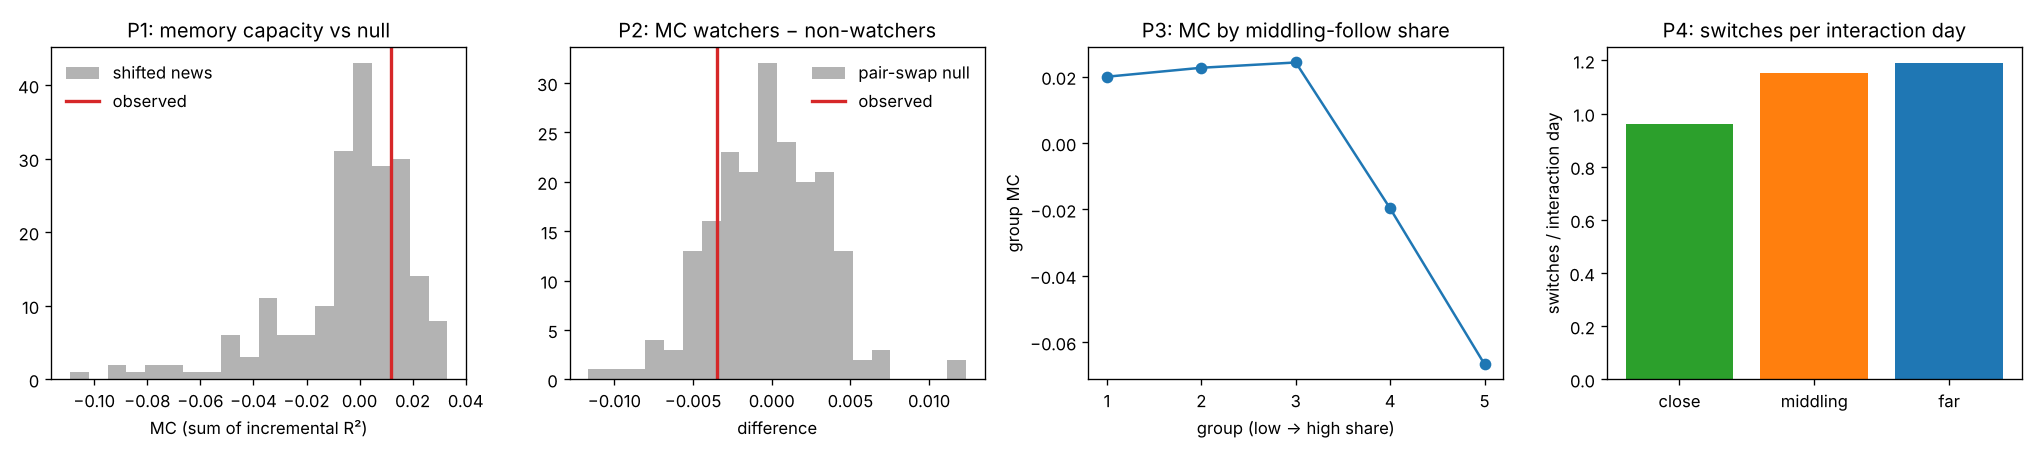
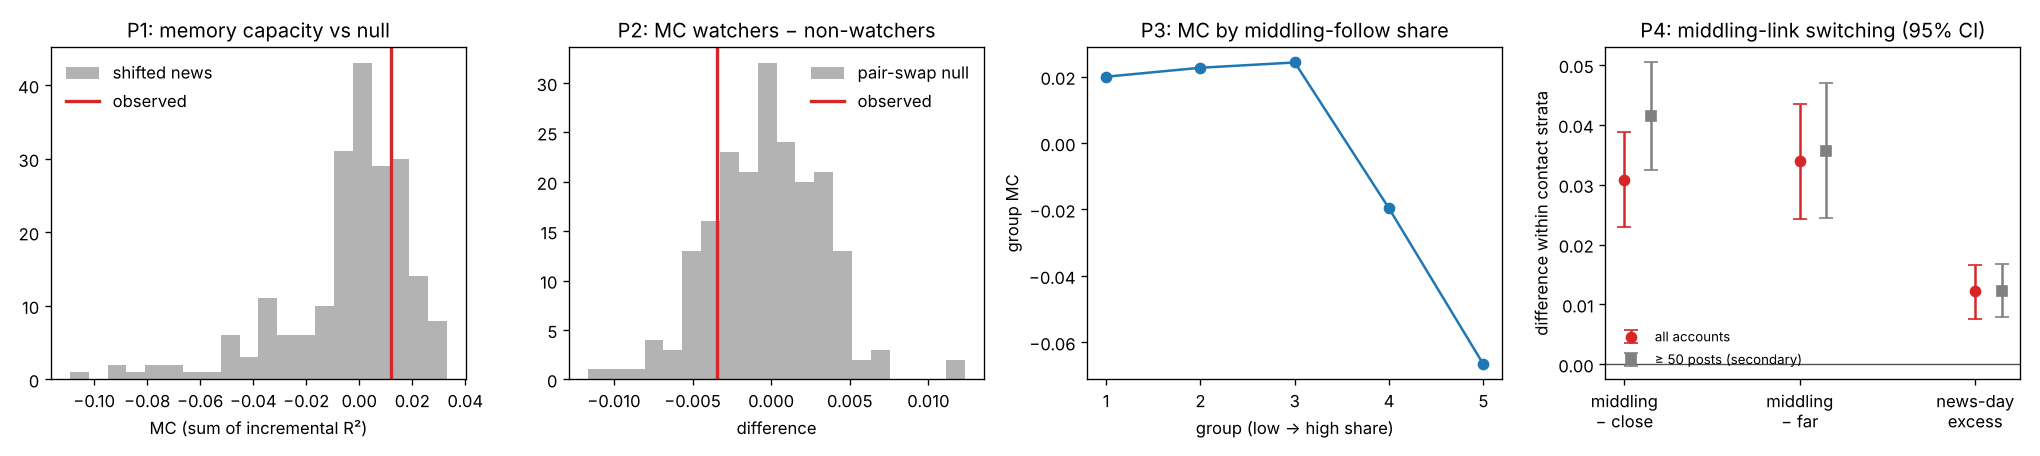
Round-2 confirmation results and write-up
Pre-registered round 2 (REAL_PREREG2.md, 16898c9) on the held-out users:
P1 MC 0.014, p 0.16 (not detected; P2, P3 not interpretable).
P4a middling-close +0.038, middling-far +0.037 and P4b +0.009, all Holm
p 0.006, replicating discovery; the secondary active-account check holds.
The positive control shows the decoder sees planted memory only at about
a fifth of state variance.

Adds REAL_RESULTS2.md, updates the README summary and status log, and
plots the tested P4 contrasts with CIs instead of raw switching rates,
which mixed in how often each class is contacted.

Claude-Session: https://claude.ai/code/session_01Uo4N8TcFqvSTmXDV3vbfXo

diff --git a/scripts/real_report.py b/scripts/real_report.py
@@ -121,9 +121,25 @@ def main():
         ax[2].set(title='P3: MC by middling-follow share', xlabel='group (low → high share)',
                   ylabel='group MC')
     if 'p4' in r:
-        names = list(r['p4']['raw'])
-        ax[3].bar(names, [r['p4']['raw'][k]['per_int_day'] for k in names], color=['C2', 'C1', 'C0'])
-        ax[3].set(title='P4: switches per interaction day', ylabel='switches / interaction day')
+        # The tested contrasts (within interaction-day strata), not raw rates: raw rates mix
+        # in how often each class is contacted at all.
+        q = r['p4']
+        lab = ['middling\n− close', 'middling\n− far', 'news-day\nexcess']
+        est = [q['d_close'], q['d_far'], q['d_news']]
+        ci = [q['ci_close'], q['ci_far'], q['ci_news']]
+        x = np.arange(3)
+        ax[3].errorbar(x, est, yerr=[[e - c[0] for e, c in zip(est, ci)], [c[1] - e for e, c in zip(est, ci)]],
+                       fmt='o', color='C3', capsize=4, label='all accounts')
+        if 'p4s' in r:
+            s = r['p4s']
+            es = [s['d_close'], s['d_far'], s['d_news']]
+            cs = [s['ci_close'], s['ci_far'], s['ci_news']]
+            ax[3].errorbar(x + 0.15, es, yerr=[[e - c[0] for e, c in zip(es, cs)], [c[1] - e for e, c in zip(es, cs)]],
+                           fmt='s', color='0.5', capsize=4, label='≥ 50 posts (secondary)')
+            ax[3].legend(frameon=False, fontsize=8)
+        ax[3].axhline(0, color='0.3', lw=0.8)
+        ax[3].set_xticks(x, lab)
+        ax[3].set(title='P4: middling-link switching (95% CI)', ylabel='difference within contact strata')
     fig.tight_layout()
     fig.savefig(os.path.join(ROOT, 'figures', f'real_{half}{tag}.png'), dpi=120)
 

diff --git a/REAL_RESULTS2.md b/REAL_RESULTS2.md
@@ -1,0 +1,136 @@
+# Real-data test, round 2: results (topic-attention states)
+
+Round 2 of the Bluesky / GDELT test planned in [REAL_DATA.md](REAL_DATA.md). The rules were
+frozen in [REAL_PREREG2.md](REAL_PREREG2.md) and pushed (commit `16898c9`) before any
+round-2 statistic was computed on the confirmation half. Round 1 (sentiment states) is in
+[REAL_RESULTS.md](REAL_RESULTS.md).
+
+Data:
+- Failla, A. & Rossetti, G. (2024). *Bluesky social dataset*, Zenodo,
+  doi:10.5281/zenodo.14669616.
+- GDELT 1.0 daily event files, 17 Feb 2023 – 18 Mar 2024.
+
+Only aggregates appear here. Full output: [results/real_confirm_r2.txt](results/real_confirm_r2.txt)
+and [figures/real_confirm_r2.png](figures/real_confirm_r2.png); discovery:
+[results/real_discovery_r2.txt](results/real_discovery_r2.txt); positive control:
+[results/real_posctrl_r2.txt](results/real_posctrl_r2.txt).
+
+## Short answer
+
+![round 2 confirmation](figures/real_confirm_r2.png)
+
+**The link-switching signature of the simulation shows up, and replicates.** When accounts
+are placed by *what* they post about rather than by how positive they sound, follow links at
+middling distance open and close more often than close or far links, holding the amount of
+contact fixed. The excess grows on high-news days. All three P4 tests pass on the
+confirmation half (Holm p = 0.006), with almost the same effect sizes as on discovery. They
+also survive the pre-registered guard against noisy profiles of quiet accounts.
+
+**The memory part is still not detected.** Users' attention states hold a little news beyond
+what the news itself predicts (MC 0.014). That is inside the shifted-news null (p = 0.16),
+so P2 and P3 are not interpretable. The positive control shows why this is weak evidence
+either way: the pipeline only sees planted memory that makes up about a fifth of a user's
+day-to-day variation.
+
+Round 1 sorted links by sentiment and found close > middling > far switching. That pattern
+does not survive a better opinion axis.
+
+## Confirmation half (pre-registered)
+
+| prediction | statistic | null / interval | one-sided p | Holm | verdict |
+|---|---|---|---|---|---|
+| 1 there is memory | MC = 0.014 (39,233 users, 231 days) | shifted news: mean −0.001, 95th pct 0.026 (207 shifts) | 0.16 | 0.48 | not supported |
+| 2 second-hand users hold less | MC watchers − non-watchers = +0.004 (6,050 matched pairs) | pair-swap 95th pct +0.006 | 0.17 | 0.48 | not interpretable |
+| 3 middling follows cost memory | slope −0.008 per group (37,490 non-watchers) | random-group 5th pct −0.013 | 0.19 | 0.48 | not interpretable |
+| 4a middling − close switching | +0.038 [+0.029, +0.046] | cluster bootstrap | 0.001 | 0.006 | passes |
+| 4a middling − far switching | +0.037 [+0.026, +0.047] | cluster bootstrap | 0.001 | 0.006 | passes → **4a supported** |
+| 4b middling news-day excess | +0.009 [+0.005, +0.013] | cluster bootstrap | 0.001 | 0.006 | **supported** |
+
+0.001 is the smallest p that 1000 bootstrap draws can give.
+
+Secondary check, outside the Holm family: positions only for accounts with at least 50
+late-window posts (2.23 M edges). Middling − close +0.048 [+0.039, +0.057], middling − far
++0.039 [+0.027, +0.051], news-day excess +0.010 [+0.006, +0.014]. No sign flips and no
+interval covers 0, so under the pre-registered reading the P4 result is not driven by profile
+noise.
+
+| | discovery | confirmation |
+|---|---|---|
+| P1 MC (null 95th pct), p | 0.012 (0.025), 0.25 | 0.014 (0.026), 0.16 |
+| P2 difference, p | −0.003, 0.82 | +0.004, 0.17 |
+| P3 slope, p | −0.022, 0.025 | −0.008, 0.19 |
+| P4a middling − close / − far | +0.031 / +0.034 | +0.038 / +0.037 |
+| P4b news-day excess | +0.012 | +0.009 |
+| secondary P4 (≥ 50 posts) | +0.042 / +0.036 / +0.012 | +0.048 / +0.039 / +0.010 |
+
+The discovery P3 slope (raw p 0.025, driven by negative MC in the top two groups) did not
+replicate. P4 replicated on every line.
+
+## What the numbers say
+
+**Middling links switch most, once contact is held fixed.**
+- Raw switches per interaction day: close 0.96, middling 1.16, far 1.19. Far links are mostly
+  one-off contacts, and a single interaction already counts as an opening and a closing.
+- Within interaction-day strata, the pre-registered comparison, middling links switch about
+  0.04 more per edge than both close and far links.
+- In round 1, sentiment distance gave the opposite order (close > middling > far). So the
+  pattern depends on the opinion axis, and topical attention is the axis on which it matches
+  the model.
+
+**"More on high-news days" is relative.**
+- All three classes switch slightly *less* on high-news days: log high/low ratios −0.019
+  (close), −0.014 (middling) and −0.027 (far).
+- Middling links fall the least, and far links the most.
+- So the news-day excess is a smaller drop, not an absolute rise. It matches the
+  pre-registered statistic but is weaker than "the news switches edge links on and off".
+
+**The memory measure is too insensitive to settle P1–P3.**
+- Positive control on discovery:
+  - It plants an exponential trace of the news (λ = 0.8, each user reading it along their
+    own random direction) in 30% of users.
+  - The traces alone, used as the state, would give MC 0.31.
+  - Planted into the real states, the MC rises above the null's 95th percentile only at
+    amplitude 0.5. There the trace's standard deviation is half that of each user's own
+    day-to-day variation, and MC reaches 0.040.
+  - At amplitude 0.3 and below, MC stays at the unplanted 0.012.
+- The observed 0.012–0.014 is consistent with no memory. It is equally consistent with real
+  memory that is smaller than what the pipeline can resolve.
+- A first version of the control used one news direction for everyone. Even its oracle
+  scored −0.004: one direction carries almost nothing once the 5-component news baseline is
+  removed.
+
+## Caveats
+
+- **Observational.** P4 is a correlation between attention distance and contact switching.
+  It does not show that the switching *causes* any loss of memory: that link is the part the
+  simulation adds and this test cannot see.
+- **Attention is not stance.** Two accounts at middling attention distance post about partly
+  different things. That can make contact patchy for reasons unrelated to tolerance.
+- **The holdout was reused.** The confirmation half had been scored in round 1 with sentiment.
+  The populations, windows and news rules were therefore already seen on it; only the
+  attention measure is new to it.
+- **The follow graph is a single snapshot**, taken at the end of the window.
+- **The lexicon leave-out was dropped** for the attention states (see REAL_PREREG2.md), so
+  repeated headlines can count as memory. That would bias P1 upward, and P1 still fails.
+
+## Reproduce
+
+Extraction as in REAL_RESULTS.md. Then:
+
+```
+export OMP_NUM_THREADS=1 OPENBLAS_NUM_THREADS=1
+python scripts/real_analysis.py run --half discovery --round 2 --only 12 --tag _p12 --nproc 4
+python scripts/real_analysis.py run --half discovery --round 2 --only 34 --tag _p34 --nproc 4   # fits results/real_cuts_r2.json
+python scripts/real_analysis.py run --half discovery --round 2 --only 5  --tag _p5
+python scripts/real_posctrl.py --nproc 4
+python scripts/real_analysis.py run --half confirm --round 2 --only 12 --tag _p12 --nproc 4
+python scripts/real_analysis.py run --half confirm --round 2 --only 34 --tag _p34 --nproc 4
+python scripts/real_analysis.py run --half confirm --round 2 --only 5  --tag _p5
+python scripts/real_report.py discovery 2
+python scripts/real_report.py confirm 2
+```
+
+Timing on 4 cores with single-threaded BLAS:
+- extraction: about 40 minutes;
+- each half's round-2 analysis: about 35 minutes (excluding loading);
+- positive control: 3 minutes.

diff --git a/README.md b/README.md
@@ -41,6 +41,15 @@ happens when a recommender uses that readout to decide who sees whom?
   the combined salience + agreement policy (difference-in-differences +0.45) and erodes
   the frozen-gate hub lead (+0.61 → +0.10) because high-gain hubs saturate under feed
   amplification. All nine pre-registered tests pass on seeds 300–323 (Holm p ≤ 0.00025).
+- **On Bluesky, the switching mechanism shows up; the memory loss cannot be measured.**
+  The test is pre-registered on half of the users and confirmed on the other half.
+  - With accounts placed by what they post about, links at middling distance switch on and
+    off more than close or far links, holding contact fixed (+0.038, +0.037), and drop
+    least on high-news days. All three tests pass (Holm p = 0.006) on both halves.
+  - Users' states hold no detectable news beyond the news itself (MC 0.014, p = 0.16).
+    A positive control shows the decoder needs very strong memory to see any, so that part
+    is untested, not refuted.
+  - See [REAL_RESULTS2.md](REAL_RESULTS2.md).
 
 ## The model ([bor/model.py](bor/model.py))
 
@@ -446,38 +455,34 @@ GDELT 1.0. Only aggregates are reported; post text stays in the git-ignored `dat
   - Reading: sentiment does not carry the news. Around 7 Oct 2023, Israel/Gaza posts rose
     about 70-fold while mean sentiment moved by 0.02. The memory claims are untested
     rather than refuted.
-- **Round 2, topic-attention states (in progress, discovery half only).**
+- **Round 2, topic-attention states.** Developed on discovery, pre-registered and pushed in
+  [REAL_PREREG2.md](REAL_PREREG2.md) (commit `16898c9`) before the confirmation half was
+  scored with attention. Results are in [REAL_RESULTS2.md](REAL_RESULTS2.md) and
+  `results/real_confirm_r2.txt`.
   - States: per user and day, log(1 + posts) on each of 6 fixed topics plus any
     news-lexicon mention. No carry-forward, so any persistence is the user's own posting.
   - Distance for P3/P4: a Hellinger-type distance between users' late-window attention
-    mixes. Per-topic stance was too sparse: only 1.7–9 k users have five or more posts on
-    any one topic.
-  - Exploration on discovery:
-    - 20 per-user PCs give MC ≈ +0.012, positive at every lag. Against 21 shifts:
-      null 95th percentile 0.016, p ≈ 0.23. With 5 PCs: MC 0.013, p ≈ 0.16.
-    - Crowd-level readouts (the user mean per channel, or crowd log shares) give MC ≤ 0.
-    - A time-reversed "future news" control was dominated by overfitting (−0.20 to
-      −0.29), so it was dropped.
-  - Code: `--round 2` in `scripts/real_analysis.py` and `real_report.py`, plus
-    `attention_states` and `attention_profiles` in `scripts/real_lib.py`. Pool workers
-    now memory-map the state matrix instead of each getting a copy.
+    mixes (cut points fitted on discovery: 0.151, 0.252).
+  - P1: MC 0.014 against a null 95th percentile of 0.026; p = 0.16. **Not detected.**
+    P2 and P3 are not interpretable.
+  - P4: within contact strata, middling links switch more than close (+0.038) and far
+    (+0.037) links, and drop least on high-news days (+0.009). **All three pass (Holm
+    p = 0.006) and replicate discovery.** They also hold when only accounts with ≥ 50 posts
+    get positions.
+  - Positive control (discovery): planted news traces become detectable only when they
+    make up about a fifth of a user's state variance (amplitude 0.5, MC 0.04; oracle
+    0.31). A failed P1 means "no memory this pipeline can see".
+  - Reading: on the attention axis, Bluesky shows the simulation's switching mechanism.
+    The memory consequences stay untested, because the decoder is too insensitive.
 
 ### Not done
 
-- **Round 2 smoke test.** It exited with code 4 and no traceback. Out of memory is
-  likely, since other processes held about 11 GB at the time, but it was not diagnosed.
-  The round-2 code is committed but has not run end to end.
-- **Round 2 discovery run.** P1–P4 have not been run through the pipeline. The cut
-  points (`results/real_cuts_r2.json`) have not been fitted.
-- **Round 2 pre-registration.** `REAL_PREREG2.md` is not written, committed or pushed.
-  It must list every variant tried on discovery (above) and drop the reversed control.
-- **Round 2 confirmation and write-up.** Not started. The confirmation half has been
-  scored once already, with sentiment, so it is a fresh holdout only for the attention
-  measure.
-- **Positive control.** Not done: inject a known fading-memory signal into the real
-  states to find the smallest MC the pipeline can detect. This would tell "measured
-  wrong" apart from "no memory".
-- **Pushing.** The round-1 results commit (`55b70ca`) has not been pushed to origin.
+- **A memory measure sensitive enough for P1–P3.** The positive control sets the bar: it
+  would need to resolve planted memory well below 20% of state variance. Options include
+  pooling users before decoding, longer windows, or per-topic news series. Each needs its
+  own pre-registration, and no fresh holdout half remains for it.
+- **A causal test of P4.** `feed_bookmarks.csv` allows only a weak before/after comparison
+  of feed subscriptions.
 
 ## Reproduce
 
@@ -497,6 +502,9 @@ python scripts/confirm_mechanism.py results/societies_300_324.npz # figures/mech
 python scripts/stage1_outrage.py results/societies_0_20.npz            # Stage 1 discovery; results/stage1_discovery.txt
 python scripts/stage1_outrage.py results/societies_300_324.npz --confirm # Stage 1 confirmation; figures/stage1_confirm.png
 ```
+
+Real-data test (needs the downloads in `data/`): see [REAL_RESULTS.md](REAL_RESULTS.md) (round 1)
+and [REAL_RESULTS2.md](REAL_RESULTS2.md) (round 2).
 
 ## Changes since the first write-up
 
@@ -524,3 +532,6 @@ python scripts/stage1_outrage.py results/societies_300_324.npz --confirm # Stage
     control at τ = 0.12), while moderate outrage (11.3) helps live salience by evacuating
     undecided links (57% → 23%) but fails to help the combined policy and erodes the
     frozen-gate hub advantage due to hub saturation.
+11. The real-data test was rerun with topic-attention states (round 2), pre-registered in
+    REAL_PREREG2.md and confirmed on the held-out users. The link-switching signature
+    replicates; memory is still not detectable, and a positive control shows why.
